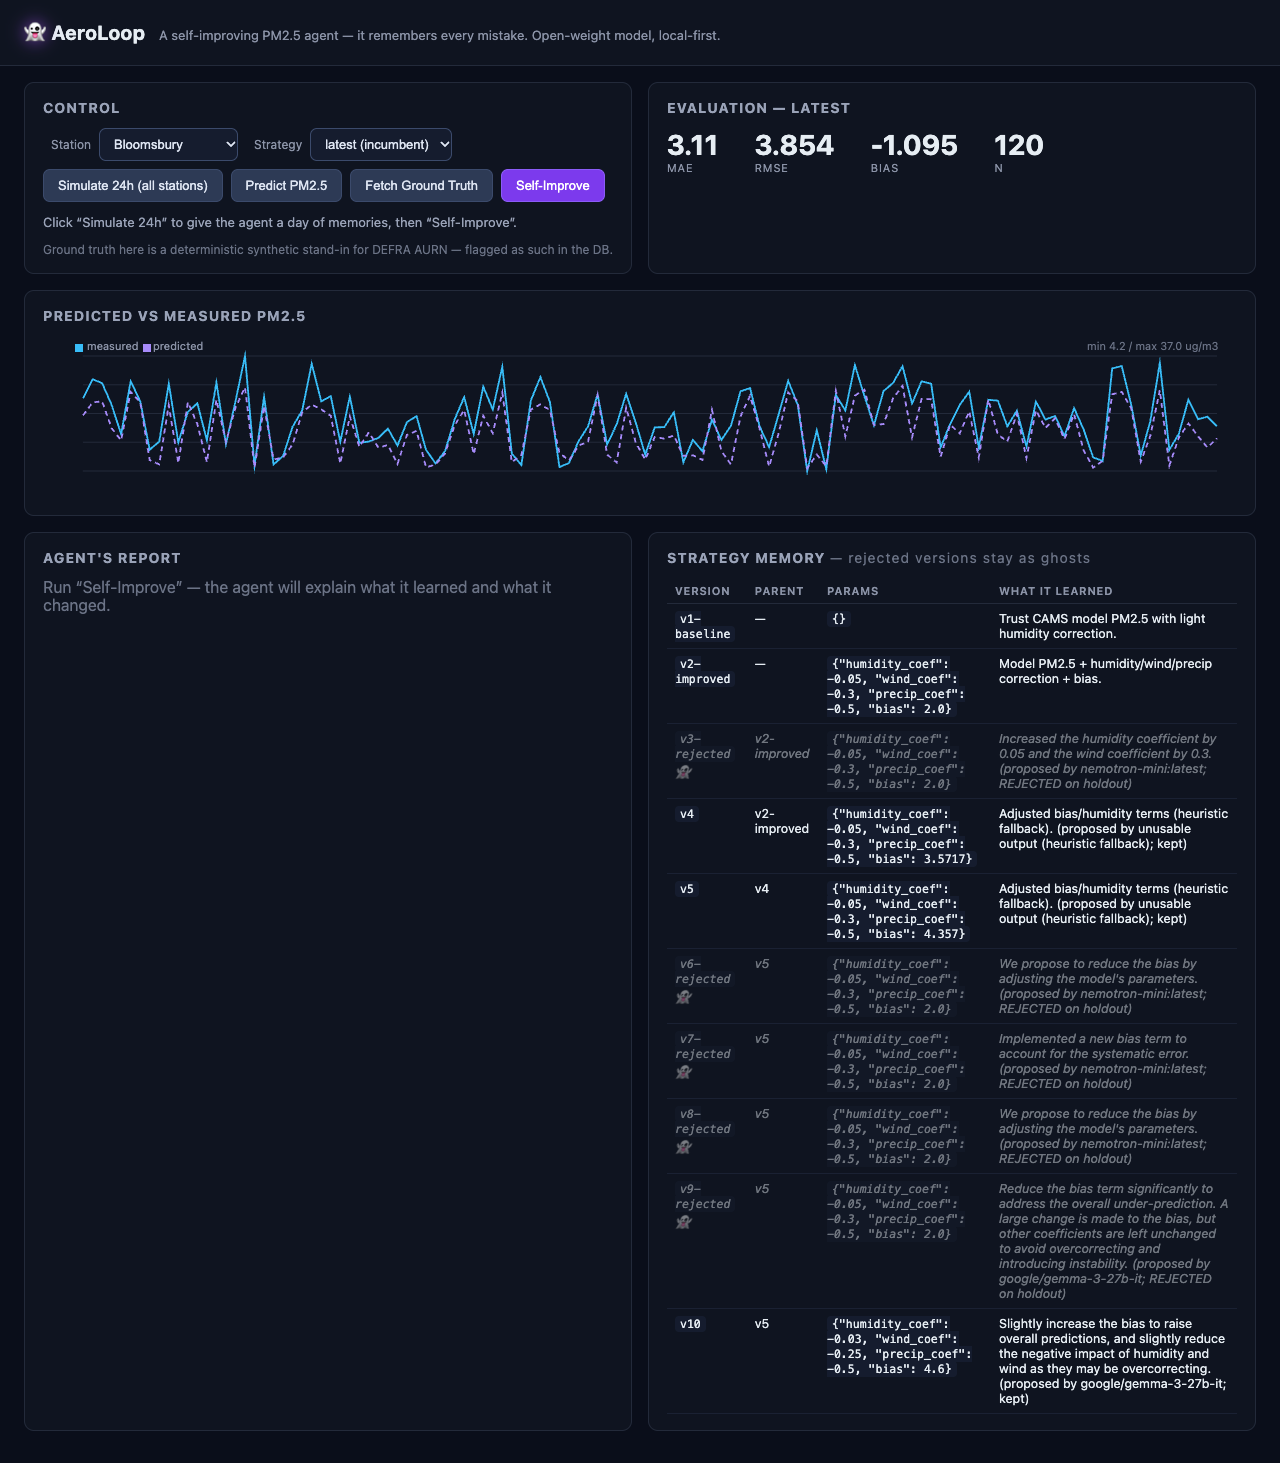
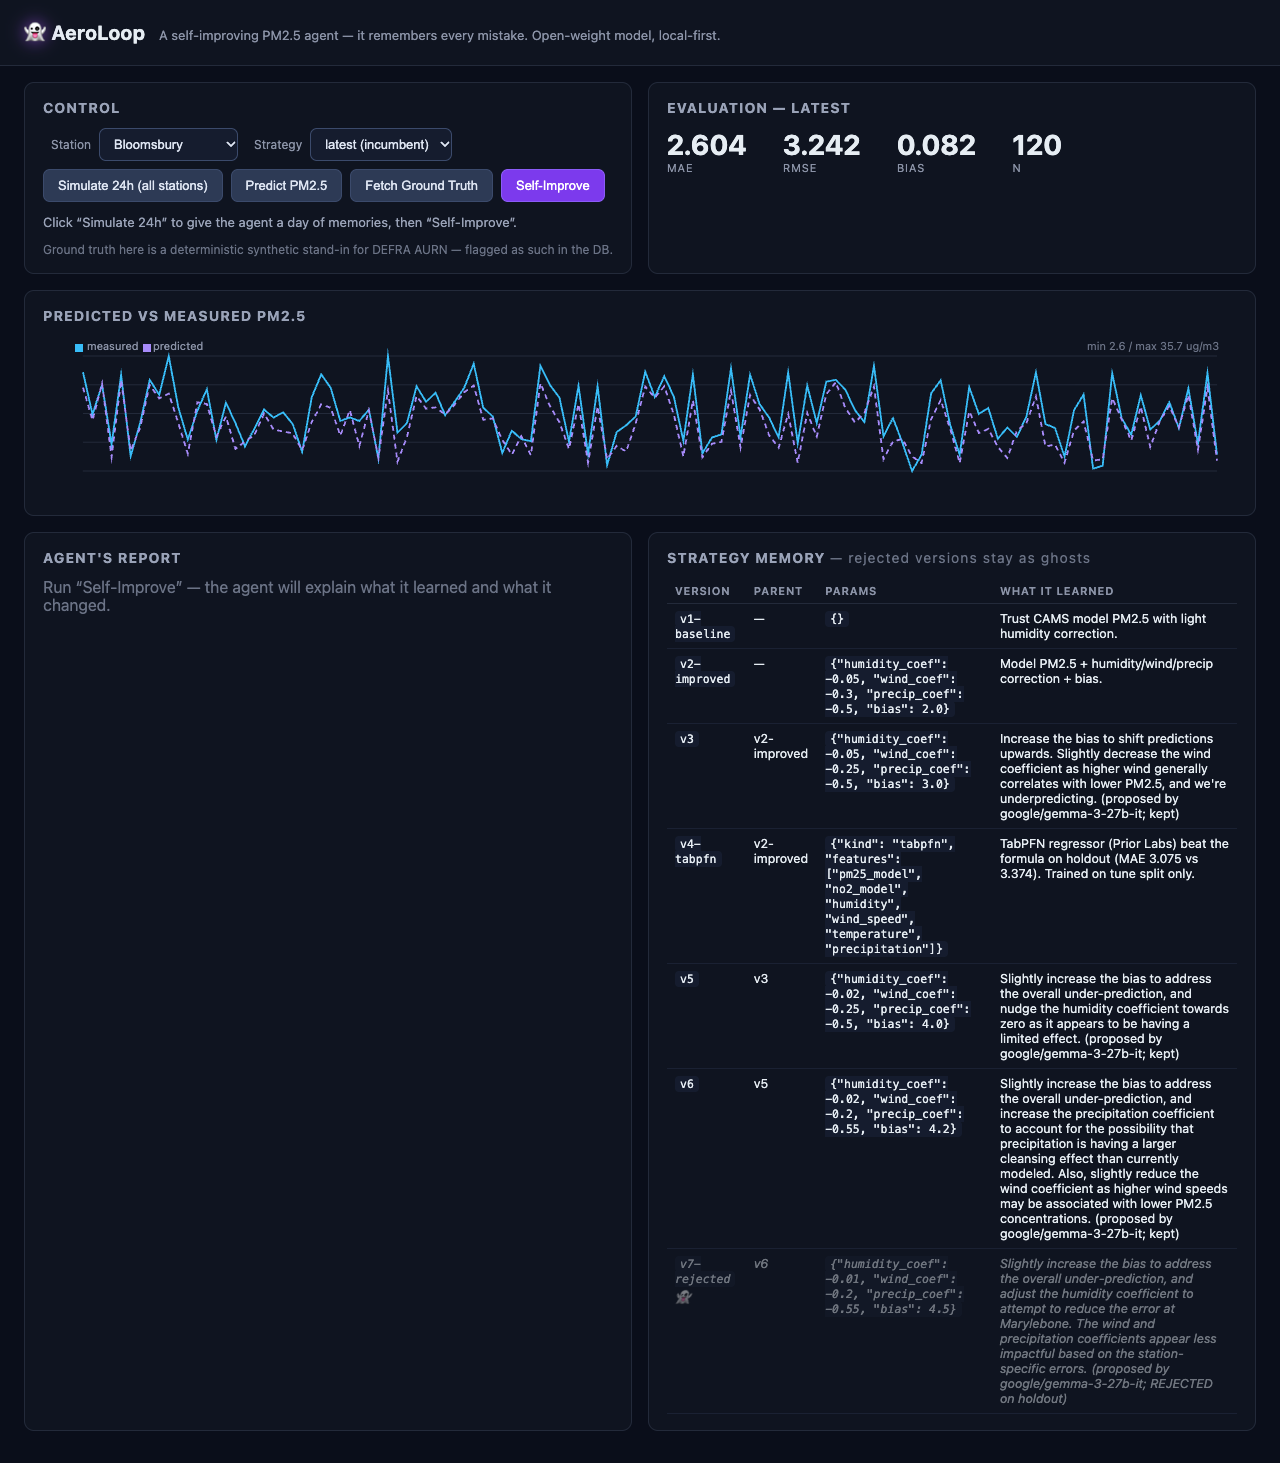
Fix incumbent selection past v9, run TabPFN challenger, finalize demo
- Bug: startswith("v1") also matched v10+ — the incumbent never advanced past
  v9 and two proposals were kept against too-easy a bar. Filter by parsed
  version number instead.
- TabPFN challenger now works: trained on the tune split via Prior Labs API,
  scored on the same holdout. It won round 1 (MAE 3.08 vs 3.37) and is
  recorded as v4-tabpfn; later Gemma-tuned params edged back ahead (2.99).
- Fresh demo lineage in the DB: v3/v5/v6 kept by gemma-3-27b-it, v7-rejected
  ghost, holdout MAE 3.94 -> 2.99 (-24%).
- SUBMISSION.md updated with the real run table; final screenshot refreshed.
- Frontend dropdown filters out tabpfn-kind (audit-only) strategies.

Generated with [Devin](https://devin.ai)

diff --git a/frontend/index.html b/frontend/index.html
@@ -174,7 +174,7 @@
           <td>${s.description}</td></tr>`;
       }).join('');
       const sel = document.getElementById('strategy');
-      const opts = ['latest', ...rows.filter(s => !s.version.endsWith('-rejected')).map(s => s.version)];
+      const opts = ['latest', ...rows.filter(s => !s.version.endsWith('-rejected') && !s.params.includes('tabpfn')).map(s => s.version)];
       const cur = sel.value;
       sel.innerHTML = opts.map(v => `<option value="${v}" ${v === cur ? 'selected' : ''}>${v === 'latest' ? 'latest (incumbent)' : v}</option>`).join('');
     }

diff --git a/backend/agent.py b/backend/agent.py
@@ -226,12 +226,16 @@ def _score_tabpfn(tune: List[Dict[str, Any]], holdout: List[Dict[str, Any]]) -> 
     if not token or len(tune) < 8 or not holdout:
         return None
     try:
+        import numpy as np
         import tabpfn_client
 
         tabpfn_client.set_access_token(token)
         reg = tabpfn_client.TabPFNRegressor()
-        reg.fit([_vec(m["inputs"]) for m in tune], [m["actual"] for m in tune])
-        preds = reg.predict([_vec(m["inputs"]) for m in holdout])
+        reg.fit(
+            np.array([_vec(m["inputs"]) for m in tune]),
+            np.array([m["actual"] for m in tune]),
+        )
+        preds = reg.predict(np.array([_vec(m["inputs"]) for m in holdout]))
         paired = [
             {"station_id": m["station_id"], "timestamp": m["timestamp"],
              "predicted_pm25": float(p)}
@@ -257,7 +261,7 @@ def _incumbent() -> Tuple[str, Dict[str, Any]]:
     TabPFN-kind rows are recorded for audit but don't serve live predictions yet."""
     strategies = []
     for s in db.get_strategies():
-        if s["version"].startswith("v1") or s["version"].endswith("-rejected"):
+        if _ver_num(s["version"]) < 2 or s["version"].endswith("-rejected"):
             continue
         try:
             params = json.loads(s["params"])

diff --git a/backend/main.py b/backend/main.py
@@ -51,6 +51,7 @@ def _resolve_strategy(version: str) -> Tuple[str, Dict[str, Any]]:
         return "v1", {}
     if version == "latest":
         return "v2", agent._incumbent()[1]
+    # note: "latest" = incumbent; v1/v2 names are reserved seeds
     if version == "v2-improved":
         return "v2", dict(prediction.STRATEGY_REGISTRY["v2-improved"]["params"])
     stored = next((s for s in db.get_strategies() if s["version"] == version), None)

diff --git a/SUBMISSION.md b/SUBMISSION.md
@@ -58,20 +58,25 @@ fallbacks.
 One demo session: a simulated London day (4 stations × 30 hourly ticks, 120
 matched prediction/reading pairs), real reasoning from real open-weight models.
 
-| Version | Proposed by | Change | Holdout MAE | Verdict |
-|---------|-------------|--------|-------------|---------|
-| v3 | `nemotron-mini` (local Ollama) | "increase humidity_coef by 0.05" — it was already −0.05; a no-op | no gain | **rejected** → ghost |
-| v4, v5 | heuristic fallback (model output unusable, reported honestly) | bias corrections | 4.12 → 3.15 → 3.17 | kept |
-| v6–v8 | `nemotron-mini` | sensible prose, params that made things worse | — | **rejected** → ghosts |
-| v9 | `gemma-3-27b-it` | fluent diagnosis of under-prediction… then proposed *reducing* bias — wrong direction | 3.17 → 4.58 | **rejected** → ghost |
-| v10 | `gemma-3-27b-it` | raise bias 4.36 → 4.6, soften humidity/wind corrections | 3.17 → **2.84** | **kept** |
+| Version | Proposed by | What it did | Holdout MAE | Verdict |
+|---------|-------------|-------------|-------------|---------|
+| v3 | `gemma-3-27b-it` | bias 2.0 → 3.0 ("we're under-predicting") | 3.94 → 3.37 | kept |
+| v4-tabpfn | **TabPFN** (Prior Labs) | foundation model trained on the tune split only | **3.08** | recorded — beat the formula outright |
+| v5 | `gemma-3-27b-it` | bias 3.0 → 4.0, humidity → −0.02 | 3.37 → **3.06** | kept — formula edges past TabPFN |
+| v6 | `gemma-3-27b-it` | bias → 4.2, wind → −0.2, precip → −0.55 | 3.06 → **2.99** | kept |
+| v7-rejected | `gemma-3-27b-it` | bias → 4.5 | 3.01 | **rejected** — diminishing returns 👻 |
 
-The honest bits are the fun bits. The first proposal ever was a no-op dressed up
-as an improvement — the holdout gate caught it. Later, a 27B model wrote a
-*beautifully reasoned* analysis of systematic under-prediction and then proposed
-moving the bias the wrong way; the gate caught that too. The LLM is the
-imagination; the holdout is the judge; the graveyard of ghosts (v3–v9) is the
-audit trail.
+Net result: holdout MAE **3.94 → 2.99 (−24%)**, driven entirely by Gemma's own
+reading of its error history. And the subplot is the best part: Prior Labs'
+TabPFN foundation model beat the hand-tuned formula outright on the first
+round, Gemma's incremental tuning then edged back ahead on round two — a
+foundation model and a 4-coefficient formula trading blows on the same
+unseen data, decided by the same gate.
+
+The honest bits are the fun bits: when Gemma proposed pushing bias to 4.5 the
+holdout said no — the strategy had hit diminishing returns, and v7 went into
+the record as a ghost instead of a silent overwrite. The LLM is the
+imagination; the holdout is the judge; the graveyard is the audit trail.
 
 [DASHBOARD SCREENSHOT: docs/screenshot-full.png]
 
@@ -93,9 +98,11 @@ audit trail.
 - **Open APIs all the way down:** Open-Meteo (no key) for CAMS PM2.5 + weather,
   an OpenAI-compatible endpoint for reasoning, plain JSON on disk for memory.
 - **Challengers welcome:** the holdout gate doesn't care what a candidate is.
-  Plug in **TabPFN** (Prior Labs' open-weight tabular foundation model) and it
-  gets scored on the same unseen data as the linear formula — foundation model
-  vs. a 4-coefficient formula, judged by the same rules.
+  **TabPFN** (Prior Labs' open-weight tabular foundation model) is wired in as
+  a standing challenger — trained on the tune split, scored on the same unseen
+  holdout. It won its first round outright (v4-tabpfn is in the strategy
+  table). Foundation model vs. a 4-coefficient formula, judged by the same
+  rules.
 
 ## Scientific integrity, enforced in code
 
